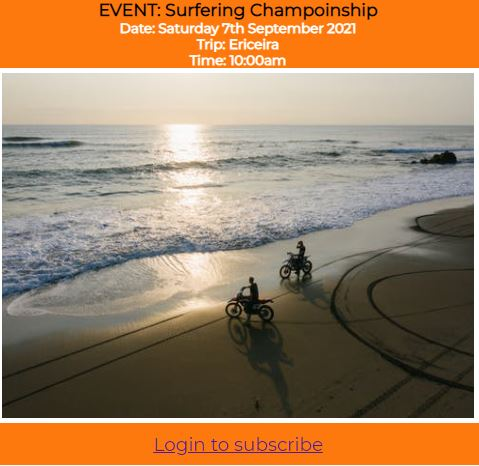
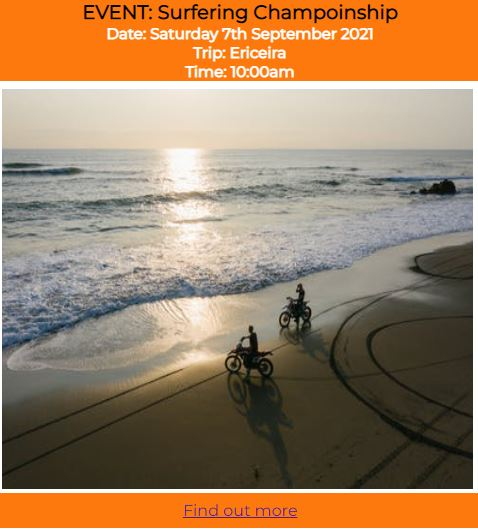
add features section with screenshots to the readme file

diff --git a/assets/css/style.css b/assets/css/style.css
@@ -271,17 +271,17 @@ body {
 
 /* media query 320px */
 
-@media only screen and (min-width: 320px) and (max-width: 768px) {
+@media only screen and (min-width: 320px) and (max-width: 539px) {
 /*navbar*/
     #navbar a {
-        width: 50%;
+        width: 40%;
         font-size: x-small;
         flex-direction: column;
         padding: .5rem;
      }
 /* index */
     #bgimage {
-        min-height: 30rem;
+        min-height: 30vh;
         margin-top: .5rem;
     }
     .join-us {
@@ -291,41 +291,38 @@ body {
         display: none;
     }
     #container {
+        width: 100%;
         flex-direction: column;
         clear: both;
         margin-top: 2rem;
     }
     #container .info {
         width: 100%;
+        font-size: x-small;
     }
     .containerfooter {
-        width: 100%;
         margin-bottom: 1rem;
     }
     #container .info {
-        font-size: small;
+        font-size: xx-small;
     }
     h2 {
         color: black;
     }
     .item1 img {
         width: 100%;
-        height: auto;
     }
     .item2 img {
         width: 100%;
-        height: auto;
     }
     .item3 img {
         width: 100%;
-        height: auto;
     }
     .item4 img {
         width: 100%;
-        height: auto;
     }
     .footer-links {
-        font-size: x-small;
+        font-size: xx-small;
         text-align: center;
         padding-left: 0;
         padding-top: 0;
@@ -346,10 +343,6 @@ body {
         text-align: justify;
         color: gray;
     }
-    
-    #aboutusimg {
-        display: none;
-    }
 /* contact us */
     #linktoform {
         display: none;
@@ -357,6 +350,7 @@ body {
     .contactimg {
         background-size:contain;
         background-repeat: no-repeat;
+        margin-top: .5rem;
     }
     .form-section3 {
         width: 80%;
@@ -377,15 +371,47 @@ body {
     }
 }
 
+/* media query for small screens 540px*/
+
+@media only screen and (min-width: 540px) and (max-width: 768px) {
+/*index*/
+    #navbar a {
+        font-size: small;
+    }
+    #bgimage {
+        height: 40vh;
+    }
+/*about us */
+    #aboutuspage {
+        width: 85%;
+        margin-left: 5%;
+    }
+/*contact us*/
+    #linktoform {
+        display: none;
+    }
+    .contactimg {
+        background-size:contain;
+        background-repeat: no-repeat;
+        margin-top: 1rem;
+    }
+    .form-section3 {
+        width: 80%;
+        margin-left: 10%;
+    }
+    .footer-links {
+        font-size: xx-small;
+    }
+}
+
 /* media query for small screens 769px*/
 
-@media only screen and (min-width: 769px) and (max-width: 1023px) {
+@media only screen and (min-width: 768px) and (max-width: 1023px) {
 /*index*/
     #navbar {
         padding: .5rem;
     }
     #bgimage {
-        margin-top: .5rem;
         width: 100vw;
         min-height: 30rem;
     }
@@ -543,7 +569,7 @@ body {
         background-size: cover;
         margin-top: .5rem;
         width: 100%;
-        min-height: 55rem;
+        height: 100vh;
     }
     #linktoevents {
         display: grid;

diff --git a/README.md b/README.md
@@ -41,33 +41,48 @@ I am a prospective Motorbike buddy site member and I want to be able to:
 
 ### _**The Home Page**_
 
-The first release version of this website will include a home page which will contain a navigation bar at the top, containing the website Logo floated to the left and to the right will include the functionality for the user to view information about the sites objectives and be able to reach out to the platform owners for information.
+The first release version of this website will include a home page which will contain a navigation bar at the top, containing the website Logo floated to the left and to the right will include the functionality for the user to view links to the home page, information about the sites objectives and be able to reach out to the platform owners for information.
+
+![navbar image](docs/READMEfiles/imageofnavbar.jpg)
 
 This home page will include a "Hero" image.
 
+![hero image](docs/READMEfiles/heroimage.jpg)
+
 Below the hero image, viewers will identify current events orgainsed and will be able to request information of any event.
 
+![example of event](docs/READMEfiles/imageofevent.jpg)
 
+The user is able to find out more details about each event by clicking on the link in the event footer. This link will direct the user to the contact us page where they will be required to fill out some details in order to receive response from the site owners.
 
 Below the events section, the users will see a clickable link which will take the viewer back to the top of the page.
 
+![clickable link to top](docs/READMEfiles/backtotop.jpg)
 
 At the bottom of the page the user will identify the footer section which will contain the motorbikebuddy copyright icon to the right together with links to social networking sites including Twiiter, Facebook and Instagram.
+
+![image of footer section](docs/READMEfiles/footerimage.jpg)
 
 
 The Top navigation bar and the footer sections will be replicated on all pages of this website.
 
-* See "Future Features" in section 4 for whats to come.
+* See "Future Features" in section 4 for whats to come in future releases.
 
 
 ### _**About Us**_
 
 This page will contain a brief description of who the platform owners are and what services they aim to provide members and why.
 
+![about us page](docs/READMEfiles/aboutusimg.jpg)
+
 
 ### _**Contact Us Page**_
 
-The contact Us page will allow users to reach out to us for information related to the website.
+The contact Us page will allow users to reach out to us for information related to the website. Above the hero image users on larger screens will find a link directing them to the form.
+
+![Contact Us Page](docs/READMEfiles/contactuslink.jpg)
+
+![contact us form](docs/READMEfiles/contactusform.jpg)
 
 This will be available using a "forms" feature where the user will be encouraged to fill in some 'required' basic information which will allow Owners to revert back to the user, using their preferred method (email or phone call),  with relevant responses. Viewers using large screens will identify a link above the Hero Image to direct the user to the form section below.
 
@@ -75,7 +90,9 @@ See "Future Features" in section 4 for whats to come in future releases.
 
 ### _**Confirmation Page**_
 
-This page will provide the user with assurances that the form has been submitted successfully.
+Upon submitting the contact us form to the site owners, the users will be directed to a new page. This page will provide the user with assurances that the form has been submitted successfully. This page also contains a link to direct the user back to the home page.
+
+![confirmation notice](docs/READMEfiles/confirmationmessage.jpg)
 
 # Future Features
 
